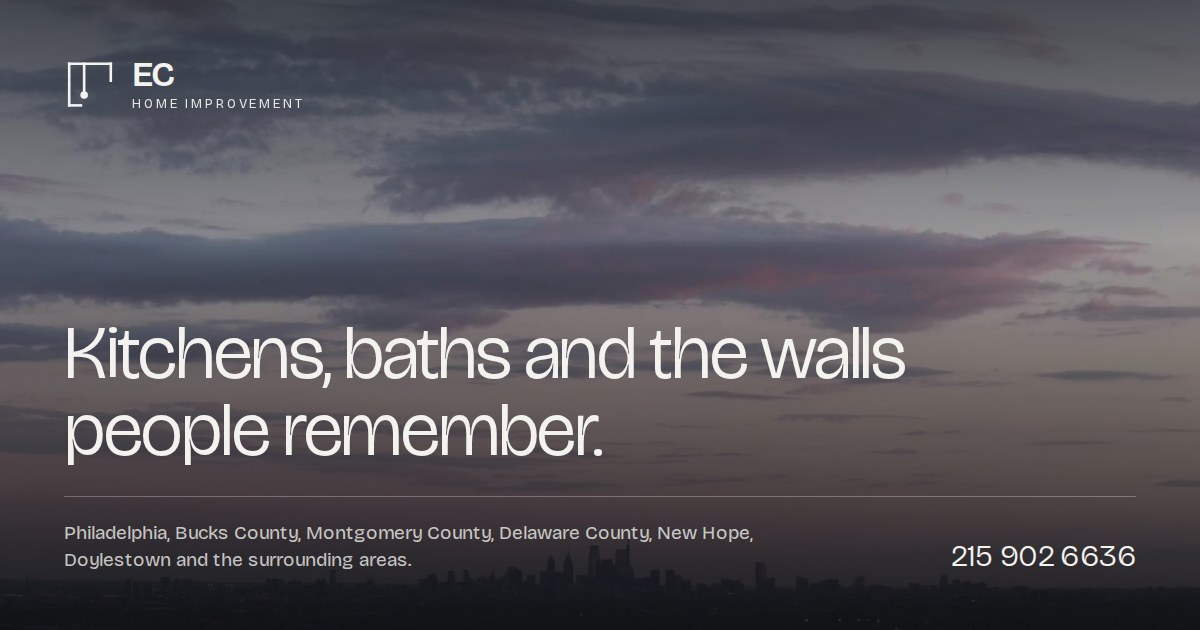
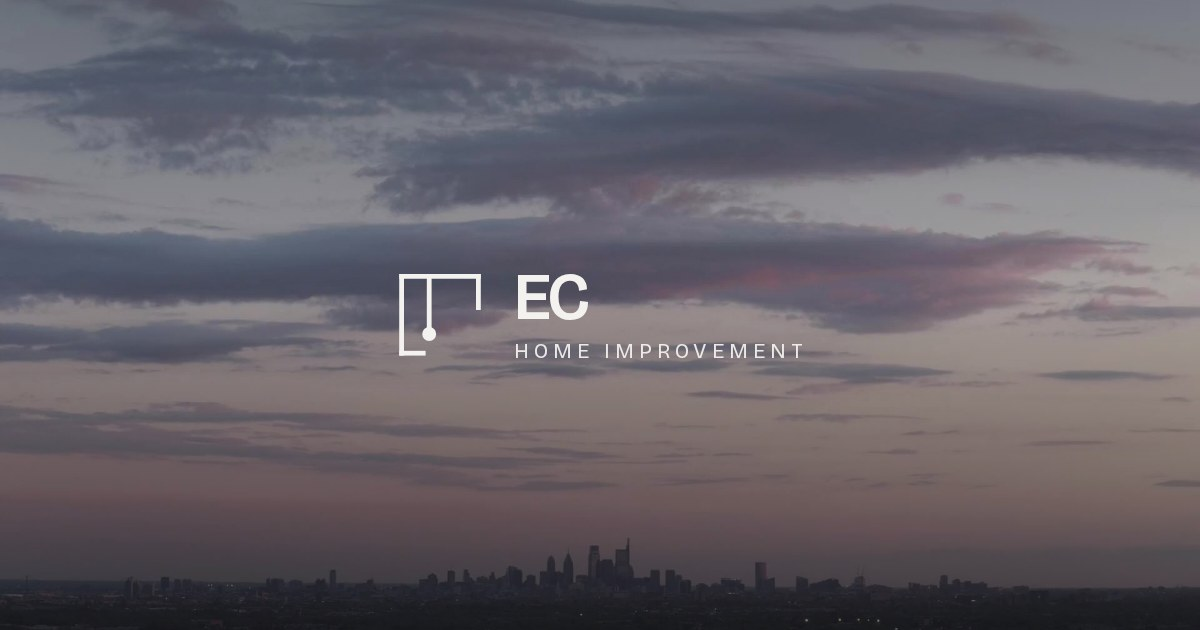
Strip the link preview back to the mark
The first pass carried a headline, the service-area line and the phone number.
It reads better as sky, skyline and the lockup, and nothing else.

Claude-Session: https://claude.ai/code/session_018pkz8WaVy6P1M4X9JHYgZN

diff --git a/CLAUDE.md b/CLAUDE.md
@@ -301,8 +301,9 @@ which is the one thing that does not pick it up automatically (the QR is a commi
 
 - **`public/og.jpg`** is what a texted link looks like. Built by rendering an HTML template through
   headless Chromium so it uses the real Bricolage face and the real hero frame, rather than being
-  laid out by hand. The skyline sits low and the phone number bottom-right, where a thumbnail crop
-  takes the least away. Regenerate from `scratchpad/og/og.html` if the line changes.
+  laid out by hand. **The mark and nothing else** — a first pass carried the headline, the service
+  areas and the phone number, and Eric cut all of it. Sky, skyline, lockup centred. Regenerate from
+  `scratchpad/og/og.html`; resist putting copy back on it.
 - **`app/icon.svg`** is the mark on ink, picked up automatically by Next as the favicon.
 - **Structured data** (`app/components/StructuredData.tsx`) states the trade and every area served,
   once, in the form Google expects. It is not a substitute for a Google Business Profile — for a
